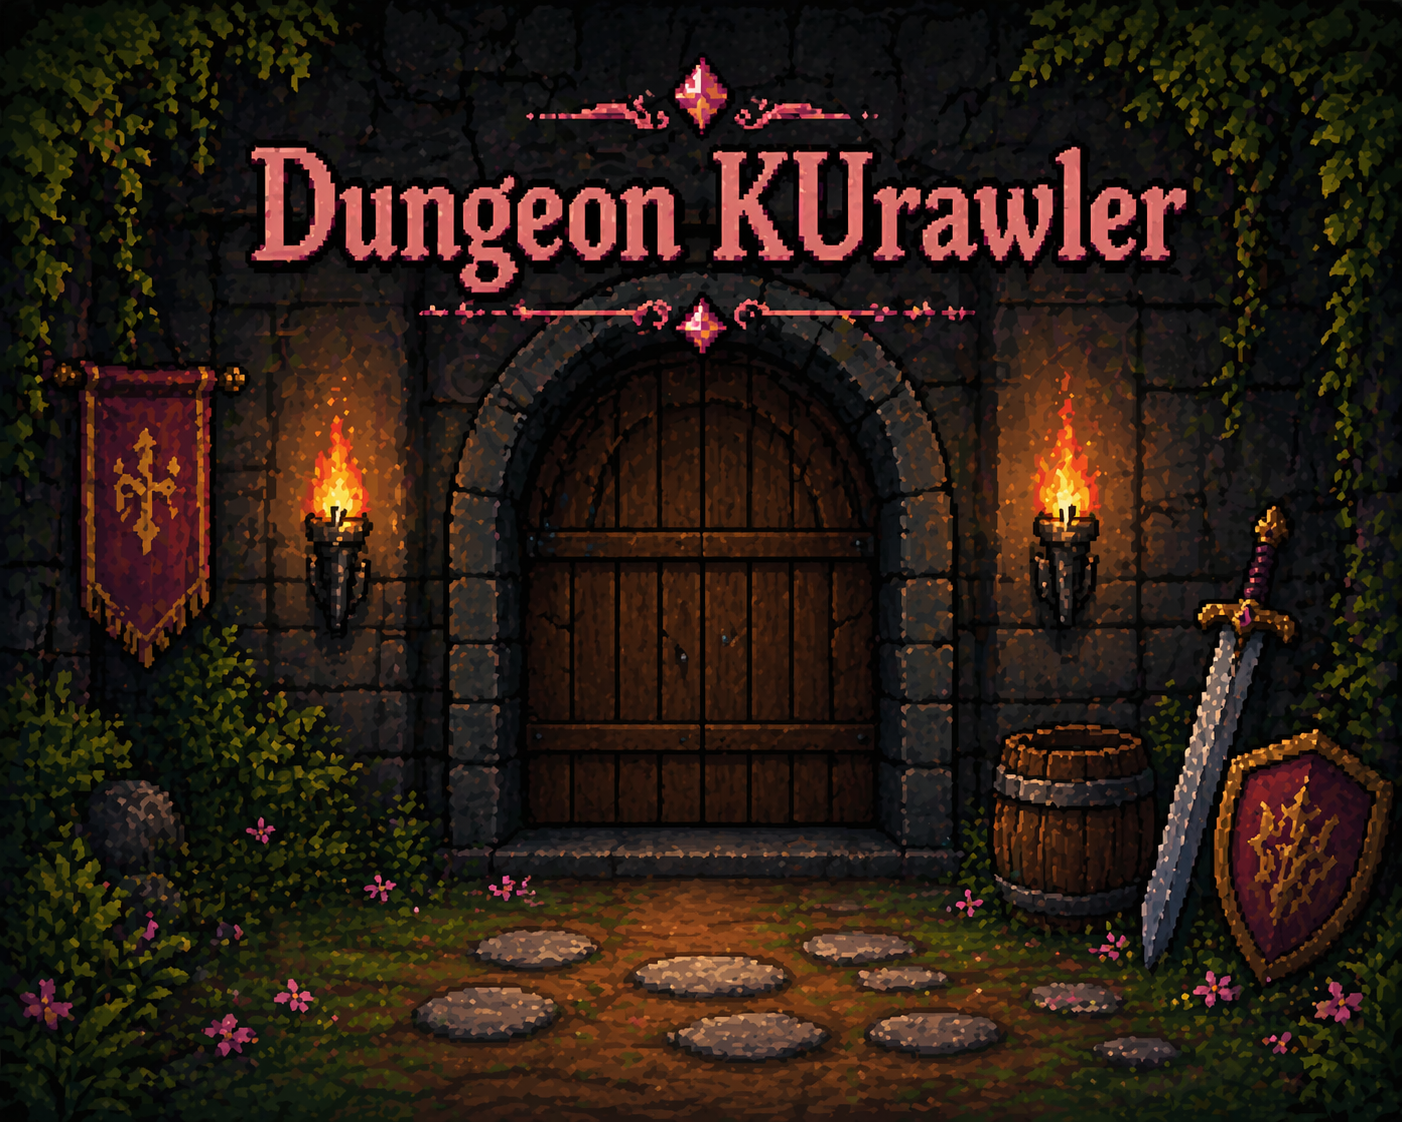
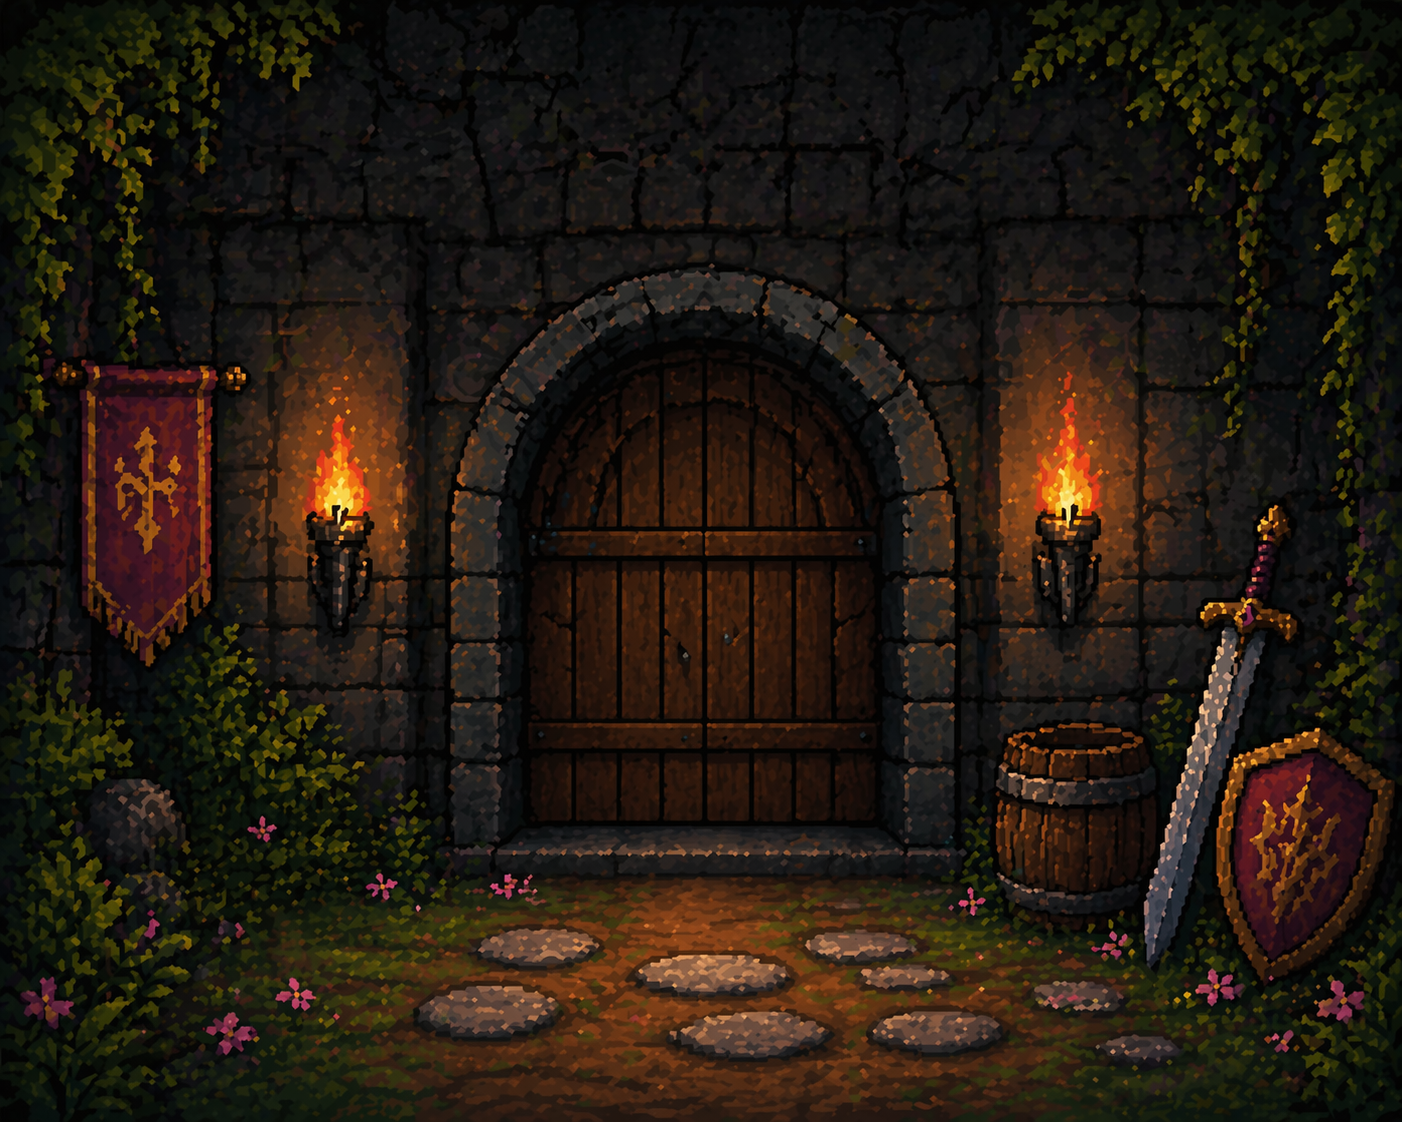
title and marjins edited

diff --git a/src/view/MainMenuView.java b/src/view/MainMenuView.java
@@ -10,6 +10,7 @@ public class MainMenuView extends JPanel {
 
     private Runnable onStartGame;
     private Image backgroundImage;
+    private BufferedImage titleImage;
 
     public MainMenuView(Runnable onStartGame) {
         this.onStartGame = onStartGame;
@@ -26,20 +27,30 @@ public class MainMenuView extends JPanel {
         } catch (Exception e) {
             System.err.println("Arka plan resmi yuklenemedi: " + e.getMessage());
         }
+
+        try {
+            File titleFile = new File("resources/images/title.png");
+            if (titleFile.exists()) {
+                BufferedImage orig = ImageIO.read(titleFile);
+                titleImage = trimImage(orig);
+            }
+        } catch (Exception e) {
+            System.err.println("Baslik resmi yuklenemedi: " + e.getMessage());
+        }
+
         initUI();
     }
 
+    private ScaledImageButton startBtn;
+    private ScaledImageButton helpBtn;
+    private ScaledImageButton quitBtn;
+
     private void initUI() {
-        setLayout(new BoxLayout(this, BoxLayout.Y_AXIS));
-        setBackground(Color.BLACK);
+        setLayout(null); // Mutlak konumlandırma ile butonların esnek ölçeklenmesini sağlayacağız
 
-        // Add some space at the top to push buttons below the background image's title
-        add(Box.createVerticalStrut(250));
-
-        // Buttons
-        JButton startBtn = createImageButton("resources/images/start_game_button.png");
-        JButton helpBtn = createImageButton("resources/images/help_button.png");
-        JButton quitBtn = createImageButton("resources/images/quit_button.png");
+        startBtn = new ScaledImageButton("resources/images/start_game_button.png");
+        helpBtn = new ScaledImageButton("resources/images/help_button.png");
+        quitBtn = new ScaledImageButton("resources/images/quit_button.png");
 
         startBtn.addActionListener(e -> {
             if (onStartGame != null) {
@@ -61,36 +72,79 @@ public class MainMenuView extends JPanel {
         });
 
         add(startBtn);
-        add(Box.createVerticalStrut(10));
         add(helpBtn);
-        add(Box.createVerticalStrut(10));
         add(quitBtn);
-
-        // Fill remaining space
-        add(Box.createVerticalGlue());
     }
 
-    private JButton createImageButton(String imagePath) {
-        JButton btn = new JButton();
-        try {
-            BufferedImage originalImg = ImageIO.read(new File(imagePath));
-            BufferedImage trimmedImg = trimImage(originalImg);
-            Image scaledImg = trimmedImg.getScaledInstance(320, 80, Image.SCALE_SMOOTH);
-            btn.setIcon(new ImageIcon(scaledImg));
-        } catch (Exception e) {
-            System.err.println("Buton resmi yuklenemedi: " + imagePath);
+    @Override
+    public void doLayout() {
+        super.doLayout();
+        int w = getWidth();
+        int h = getHeight();
+
+        // Orijinal oyun penceresi olan 832x640'a göre ölçek katsayısını hesaplıyoruz
+        double scaleX = w / 832.0;
+        double scaleY = h / 640.0;
+        // Boşlukları doldurmak için resmi (ve butonları) kırparak/zoomlayarak büyütüyoruz (Math.max)
+        double scale = Math.max(scaleX, scaleY);
+
+        int logicalW = (int) (832 * scale);
+        int logicalH = (int) (640 * scale);
+        int offsetX = (w - logicalW) / 2;
+        int offsetY = (h - logicalH) / 2;
+
+        // Butonların aşırı büyümesini engellemek için maksimum bir ölçek (örn. 1.25) belirliyoruz
+        double btnScale = Math.min(scale, 1.25);
+        int btnW = (int) (320 * btnScale);
+        int btnH = (int) (80 * btnScale);
+        int gap = (int) (10 * btnScale);
+        
+        int startX = offsetX + (logicalW - btnW) / 2;
+        
+        // Butonların kapının üzerinde her zaman ortalı durması için merkez koordinatını hesaplıyoruz
+        int totalBtnHeight = 3 * btnH + 2 * gap;
+        int centerY = offsetY + (int) (380 * scale); // 250 (eski başlangıç) + 130 (buton bloklarının yarı boyu) = 380
+        int startY = centerY - totalBtnHeight / 2;
+        
+        if (startBtn != null) {
+            startBtn.setBounds(startX, startY, btnW, btnH);
         }
-        btn.setAlignmentX(Component.CENTER_ALIGNMENT);
-        btn.setFocusPainted(false);
-        btn.setBorderPainted(false);
-        btn.setContentAreaFilled(false);
-        btn.setOpaque(false);
-        btn.setCursor(new Cursor(Cursor.HAND_CURSOR));
+        if (helpBtn != null) {
+            helpBtn.setBounds(startX, startY + btnH + gap, btnW, btnH);
+        }
+        if (quitBtn != null) {
+            quitBtn.setBounds(startX, startY + 2 * btnH + 2 * gap, btnW, btnH);
+        }
+    }
 
-        btn.setMaximumSize(new Dimension(320, 80));
-        btn.setPreferredSize(new Dimension(320, 80));
+    private class ScaledImageButton extends JButton {
+        private BufferedImage img;
 
-        return btn;
+        public ScaledImageButton(String imagePath) {
+            try {
+                BufferedImage originalImg = ImageIO.read(new File(imagePath));
+                img = trimImage(originalImg);
+            } catch (Exception e) {
+                System.err.println("Buton resmi yuklenemedi: " + imagePath);
+            }
+            setFocusPainted(false);
+            setBorderPainted(false);
+            setContentAreaFilled(false);
+            setOpaque(false);
+            setCursor(new Cursor(Cursor.HAND_CURSOR));
+        }
+
+        @Override
+        protected void paintComponent(Graphics g) {
+            if (img != null) {
+                Graphics2D g2 = (Graphics2D) g.create();
+                // Resmin pürüzsüz ve orantılı bir şekilde butonun güncel boyutuna çizilmesi
+                g2.setRenderingHint(RenderingHints.KEY_INTERPOLATION, RenderingHints.VALUE_INTERPOLATION_BILINEAR);
+                g2.drawImage(img, 0, 0, getWidth(), getHeight(), null);
+                g2.dispose();
+            }
+            super.paintComponent(g);
+        }
     }
 
     private BufferedImage trimImage(BufferedImage img) {
@@ -142,7 +196,55 @@ public class MainMenuView extends JPanel {
     protected void paintComponent(Graphics g) {
         super.paintComponent(g);
         if (backgroundImage != null) {
-            g.drawImage(backgroundImage, 0, 0, getWidth(), getHeight(), this);
+            double scaleX = getWidth() / 832.0;
+            double scaleY = getHeight() / 640.0;
+            // Boşlukları doldurmak için zoom yapıyoruz (Math.max)
+            double scale = Math.max(scaleX, scaleY);
+
+            int logicalW = (int) (832 * scale);
+            int logicalH = (int) (640 * scale);
+            int offsetX = (getWidth() - logicalW) / 2;
+            int offsetY = (getHeight() - logicalH) / 2;
+
+            g.drawImage(backgroundImage, offsetX, offsetY, logicalW, logicalH, this);
+
+            if (titleImage != null) {
+                // Başlık resminin büyüme limitini butonlara kıyasla bir tık daha fazla yapıyoruz (örn: 1.5)
+                double titleScale = Math.min(scale, 1.5);
+                double imgRatio = (double) titleImage.getHeight() / titleImage.getWidth();
+                
+                // Başlığın referans genişliği 500 piksel olarak belirleyelim
+                int tW = (int) (500 * titleScale);
+                int tH = (int) (tW * imgRatio);
+                
+                // Başlığın ekran dışına (sağ/sol) taşmasını engelliyoruz (minimum 20px boşluk)
+                if (tW > getWidth() - 40) {
+                    tW = getWidth() - 40;
+                    tH = (int) (tW * imgRatio);
+                }
+                
+                // Başlığı her zaman ekranın tam ortasına hizalıyoruz
+                int tX = getWidth() / 2 - tW / 2;
+                
+                // Ekran büyütüldüğünde (scale > 1.0) başlığın butonlara fazla uzak kalmaması için aşağı doğru hafif kaydırma (shift) ekliyoruz
+                int extraDrop = 0;
+                if (scale > 1.0) {
+                    extraDrop = (int) ((scale - 1.0) * 80);
+                }
+                
+                // Başlığın merkez koordinatını hesaplıyor ve ekstra kaydırmayı da ekliyoruz
+                int tY = offsetY + (int) (120 * scale) - tH / 2 + extraDrop;
+
+                // Başlığın üstten ekran dışına taşmasını engelliyoruz
+                if (tY < 20) {
+                    tY = 20;
+                }
+
+                Graphics2D g2 = (Graphics2D) g.create();
+                g2.setRenderingHint(RenderingHints.KEY_INTERPOLATION, RenderingHints.VALUE_INTERPOLATION_BILINEAR);
+                g2.drawImage(titleImage, tX, tY, tW, tH, null);
+                g2.dispose();
+            }
         }
     }
 }
